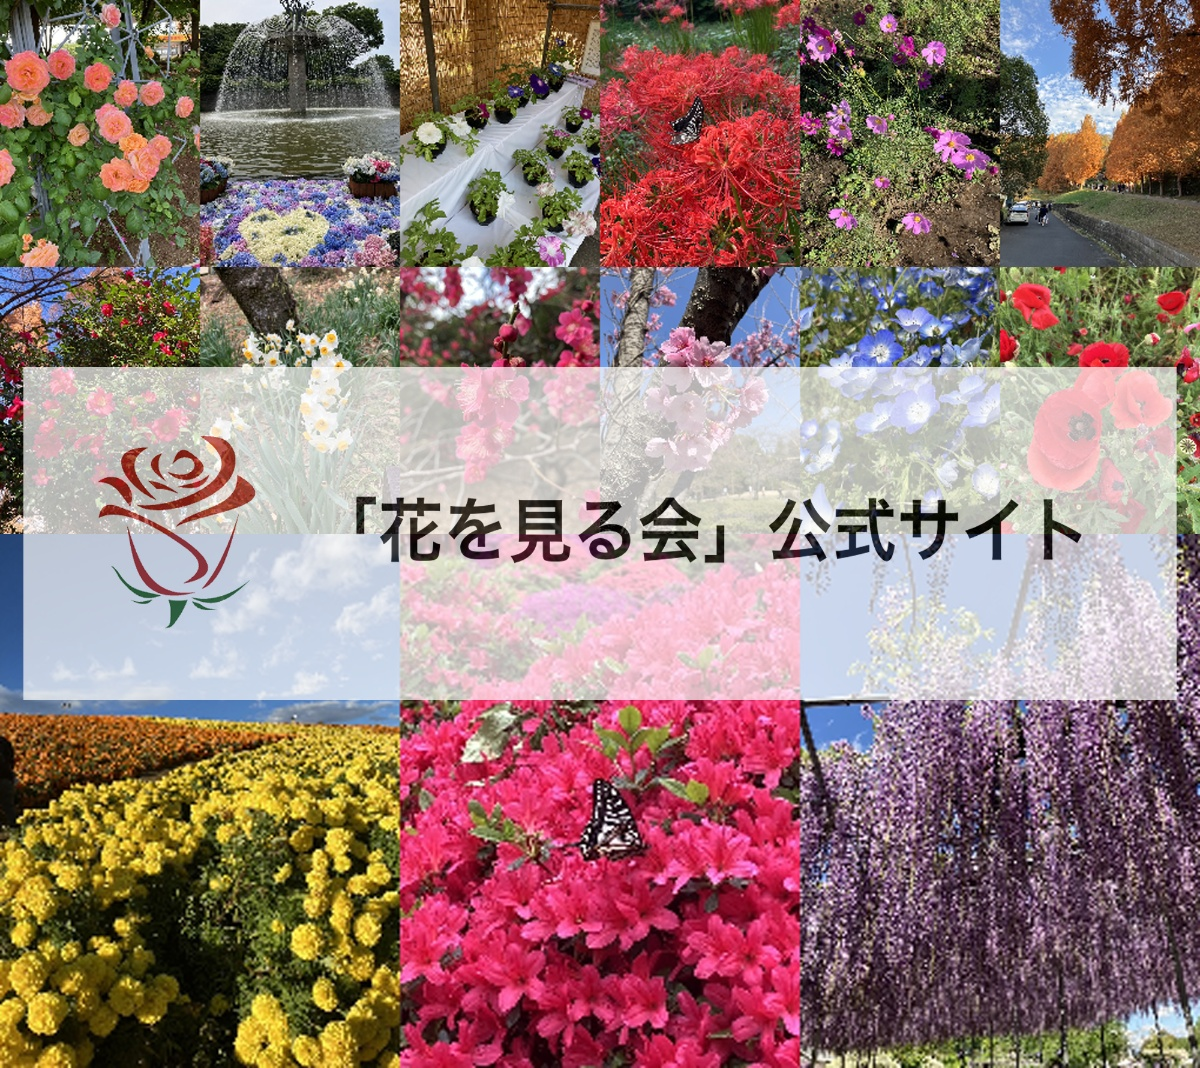
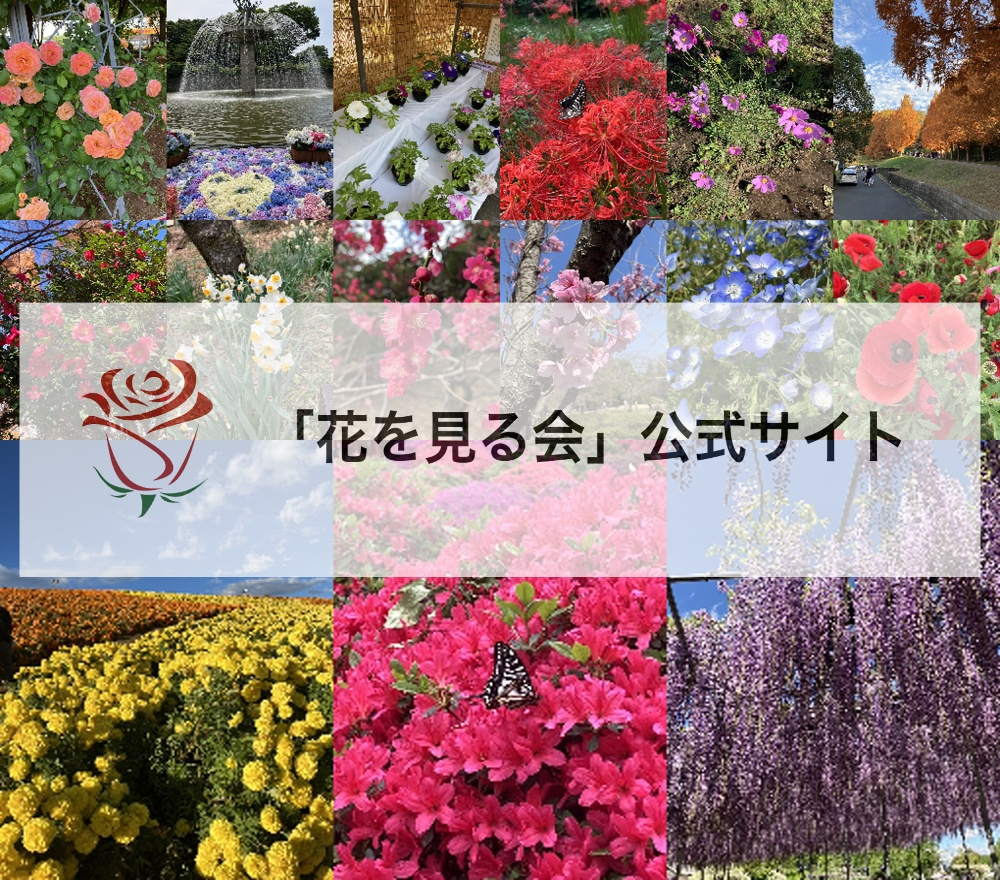
次回開催予定の OGP 変更 / OGP 画像サイズ修正 (#47)
* fix: 暫定的な OGP 画像生成スクリプトを作成

* fix: OGP 画像修正

* fix: OGP 画像修正

* fix: OGP 画像修正

* fix: OGP 画像修正

* fix: OGP 画像修正

* fix: OGP 画像サイズ修正

* fix: 開催予定ページの OGP を修正

* fix: OGP 画像サイズ修正

diff --git a/generate_twitter_card.py b/generate_twitter_card.py
@@ -78,6 +78,6 @@ alpha = 0.7
 result_image[y1:y2, x1:x2] = result_image[y1:y2, x1:x2] * (1 - alpha) + \
     logo_card_image[y1-margin_height:y2-margin_height, x1-margin_width:x2-margin_width] * alpha
 
-result_image = cv2.resize(result_image, (1200, 1068))    
+result_image = cv2.resize(result_image, (1000, 880))    
 
 cv2.imwrite('./twitter_card_result.jpg', result_image)
